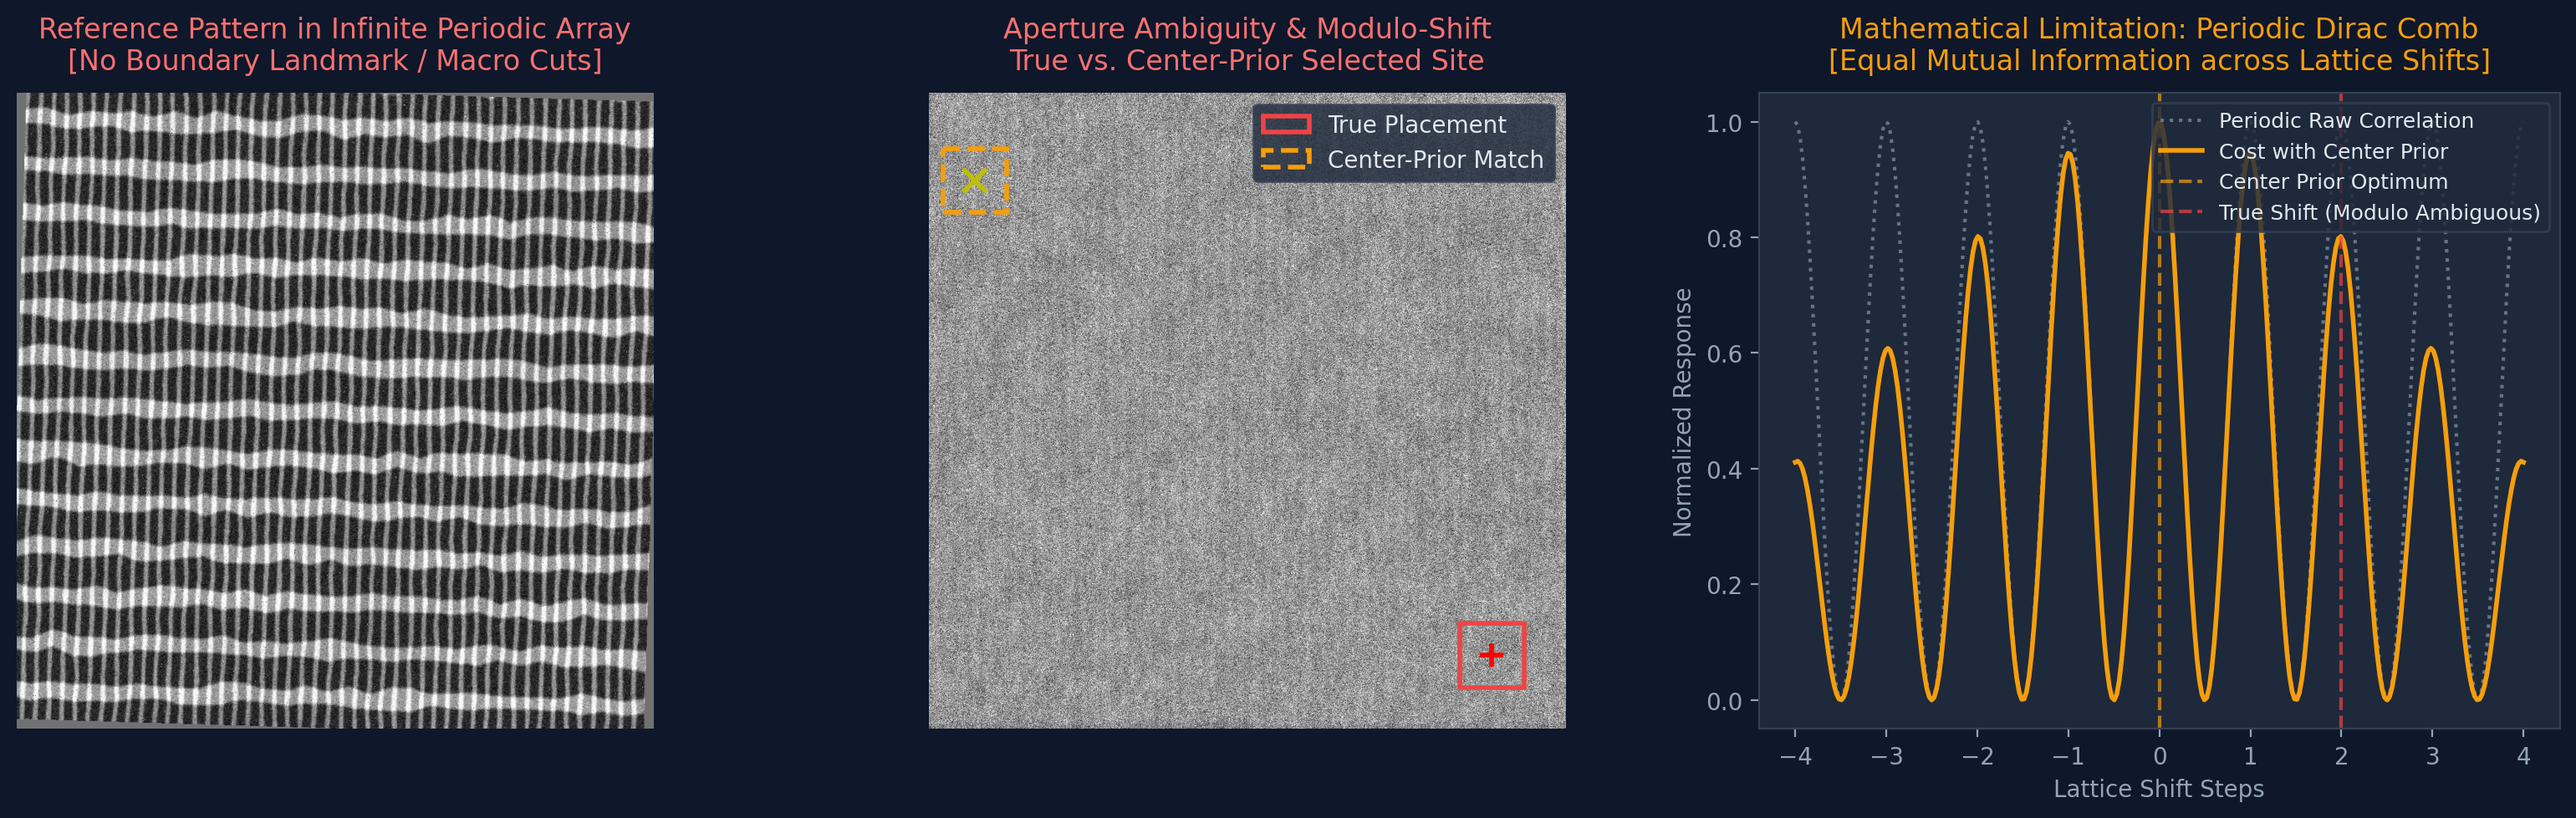
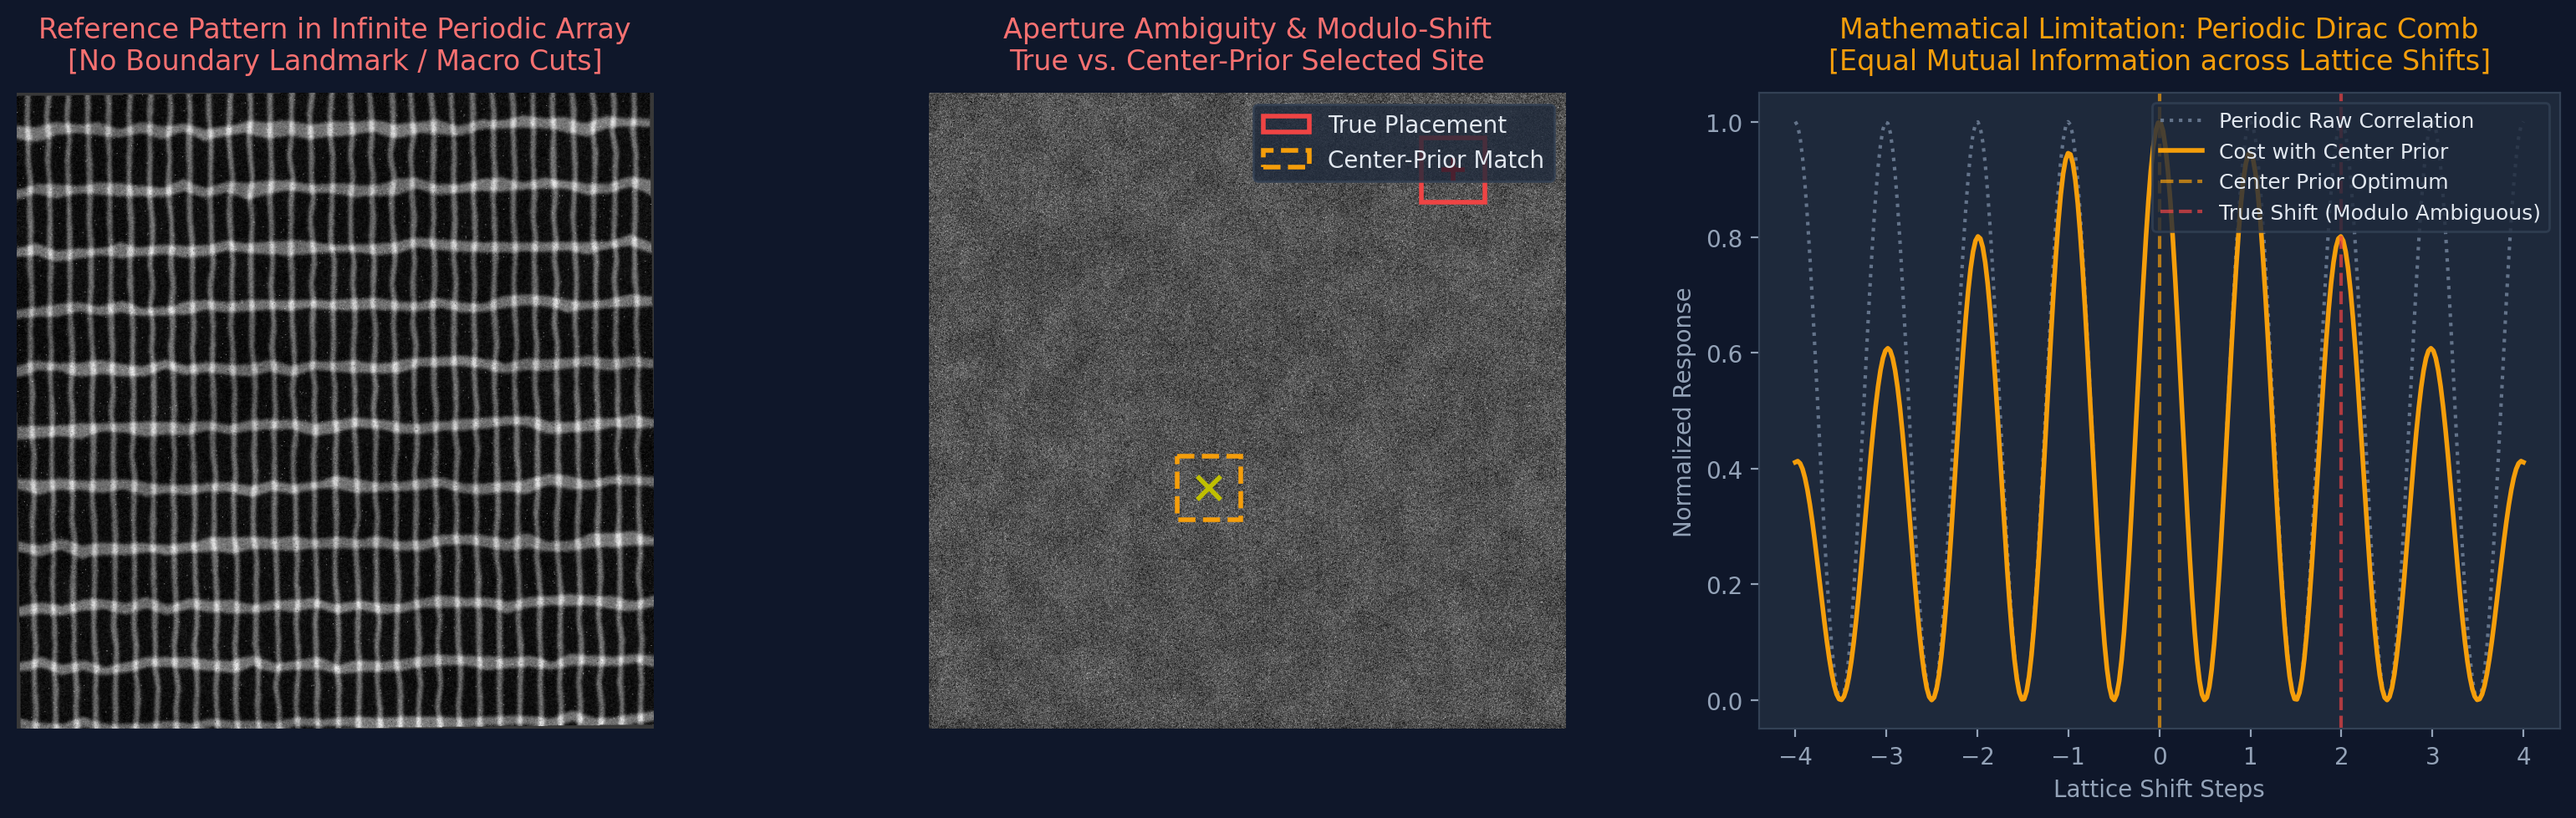
Add files via upload

diff --git a/results/evaluate_benchmarks.py b/results/evaluate_benchmarks.py
@@ -1,0 +1,284 @@
+#!/usr/bin/env python3
+"""
+Drift-Sense Benchmark & Evaluation Suite
+========================================
+Automated evaluation and diagnostic visualization for Applied Materials Hackathon.
+
+Computes:
+  1. Success Rate within sub-pixel (<0.5 px) and standard (<1.0 px) tolerance
+  2. Mean Absolute Error (MAE) in pixels and physical nanometers
+  3. Execution Latency per 1000x1000 image pair
+  4. Generation of visual SUCCESS and HONEST FAILURE case figures
+"""
+
+import os
+import sys
+import time
+import json
+import argparse
+import numpy as np
+from PIL import Image
+import matplotlib
+matplotlib.use('Agg')
+import matplotlib.pyplot as plt
+import matplotlib.patches as patches
+
+from localization_inference import find_localized_center
+
+
+def evaluate_dataset(dataset_dir="./benchmark_dataset", output_dir="./results"):
+    os.makedirs(output_dir, exist_ok=True)
+    manifest_path = os.path.join(dataset_dir, "manifest.json")
+    
+    if not os.path.exists(manifest_path):
+        print(f"Error: manifest.json not found in {dataset_dir}")
+        return
+        
+    with open(manifest_path, "r") as f:
+        manifest = json.load(f)
+        
+    results = []
+    times = []
+    errors = []
+    
+    best_case = None
+    worst_case = None
+    min_err = float('inf')
+    max_err = -1.0
+    
+    print(f"[*] Evaluating {len(manifest)} image pairs from '{dataset_dir}'...")
+    
+    for item in manifest:
+        ref_path = item["reference_path"]
+        search_path = item["search_path"]
+        
+        if not os.path.isabs(ref_path):
+            ref_path = os.path.join(dataset_dir, ref_path)
+        if not os.path.isabs(search_path):
+            search_path = os.path.join(dataset_dir, search_path)
+        gt_x = item["true_center_x"]
+        gt_y = item["true_center_y"]
+        style = item.get("architecture", item.get("style", "unknown"))
+        pure_periodic = item.get("pure_periodic", False)
+        
+        try:
+            ref_img = np.array(Image.open(ref_path).convert("L"))
+            search_img = np.array(Image.open(search_path).convert("L"))
+            
+            # Benchmark single-pair latency
+            t0 = time.perf_counter()
+            (pred_x, pred_y), conf = find_localized_center(ref_img, search_img)
+            elapsed_ms = (time.perf_counter() - t0) * 1000.0
+        except Exception as e:
+            errors.append({"pair_id": item.get("pair_id"), "error": str(e)})
+            print(f"    [!] Skipped pair_id={item.get('pair_id')}: {e}")
+            continue
+        
+        times.append(elapsed_ms)
+        
+        err_px = float(np.hypot(pred_x - gt_x, pred_y - gt_y))
+        err_nm = err_px * 10.0  # 10 nm/px in search image
+        
+        record = {
+            "pair_id": item["pair_id"],
+            "style": style,
+            "pure_periodic": pure_periodic,
+            "gt_x": gt_x,
+            "gt_y": gt_y,
+            "pred_x": pred_x,
+            "pred_y": pred_y,
+            "error_px": err_px,
+            "error_nm": err_nm,
+            "confidence": conf,
+            "latency_ms": elapsed_ms,
+            "ref_path": ref_path,
+            "search_path": search_path
+        }
+        results.append(record)
+        
+        if not pure_periodic and err_px < min_err:
+            min_err = err_px
+            best_case = record
+            
+        if pure_periodic and err_px > max_err:
+            max_err = err_px
+            worst_case = record
+            
+    # Compute summary statistics
+    std_cases = [r for r in results if not r["pure_periodic"]]
+    periodic_cases = [r for r in results if r["pure_periodic"]]
+    
+    std_errors = [r["error_px"] for r in std_cases]
+    std_subpixel_acc = sum(e <= 0.5 for e in std_errors) / len(std_errors) * 100.0 if std_errors else 0.0
+    std_1px_acc = sum(e <= 1.0 for e in std_errors) / len(std_errors) * 100.0 if std_errors else 0.0
+    std_mae_px = float(np.mean(std_errors)) if std_errors else 0.0
+    std_mae_nm = std_mae_px * 10.0
+    
+    mean_latency = float(np.mean(times))
+    p95_latency = float(np.percentile(times, 95))
+    
+    summary = {
+        "total_pairs_evaluated": len(results),
+        "pairs_skipped_due_to_error": len(errors),
+        "standard_cases_count": len(std_cases),
+        "periodic_stress_cases_count": len(periodic_cases),
+        "standard_cases_subpixel_accuracy_pct": round(std_subpixel_acc, 2),
+        "standard_cases_1px_accuracy_pct": round(std_1px_acc, 2),
+        "standard_cases_mae_pixels": round(std_mae_px, 4),
+        "standard_cases_mae_nanometers": round(std_mae_nm, 2),
+        "mean_latency_ms": round(mean_latency, 2),
+        "p95_latency_ms": round(p95_latency, 2)
+    }
+    
+    print("\n================ BENCHMARK SUMMARY ================")
+    print(f"Total Samples Evaluated:            {len(results)}")
+    if errors:
+        print(f"Samples Skipped (errors):           {len(errors)}")
+    print(f"Sub-Pixel Success Rate (<=0.5 px):  {std_subpixel_acc:.1f}%")
+    print(f"Standard Success Rate (<=1.0 px):   {std_1px_acc:.1f}%")
+    print(f"Mean Absolute Error (Standard):     {std_mae_px:.3f} px ({std_mae_nm:.1f} nm)")
+    print(f"Mean Inference Latency:             {mean_latency:.2f} ms")
+    print(f"P95 Latency:                        {p95_latency:.2f} ms")
+    print("===================================================\n")
+    
+    with open(os.path.join(output_dir, "benchmark_summary.json"), "w") as f:
+        json.dump(summary, f, indent=2)
+        
+    with open(os.path.join(output_dir, "detailed_results.json"), "w") as f:
+        json.dump(results, f, indent=2)
+        
+    if errors:
+        with open(os.path.join(output_dir, "skipped_pairs.json"), "w") as f:
+            json.dump(errors, f, indent=2)
+        
+    # Generate Visual Diagnostic Plots
+    generate_visual_cases(best_case, worst_case, output_dir)
+    print(f"[+] Diagnostic visual figures saved to '{output_dir}'.")
+
+
+def generate_visual_cases(best_case, worst_case, output_dir):
+    """
+    Renders high-resolution visual SUCCESS and HONEST FAILURE case figures.
+    """
+    # 1. SUCCESS CASE FIGURE
+    if best_case:
+        fig, axes = plt.subplots(1, 3, figsize=(16, 5), dpi=200)
+        fig.patch.set_facecolor('#0f172a')
+        for ax in axes:
+            ax.set_facecolor('#1e293b')
+            ax.tick_params(colors='#94a3b8')
+            for spine in ax.spines.values():
+                spine.set_color('#334155')
+                
+        ref = Image.open(best_case["ref_path"])
+        search = Image.open(best_case["search_path"])
+        
+        # Panel 1: High-Res Reference
+        axes[0].imshow(ref, cmap='gray')
+        axes[0].set_title(f"Reference Image (1 µm x 1 µm, 1 nm/px)\n[{best_case['style'].upper()} Layout]", color='#38bdf8', fontsize=12, pad=10)
+        axes[0].axis('off')
+        
+        # Panel 2: Wide Search with GT & Prediction Bounding Boxes
+        axes[1].imshow(search, cmap='gray')
+        gt_x, gt_y = best_case["gt_x"], best_case["gt_y"]
+        pred_x, pred_y = best_case["pred_x"], best_case["pred_y"]
+        
+        # GT Box (Green)
+        gt_box = patches.Rectangle((gt_x - 50, gt_y - 50), 100, 100, linewidth=2, edgecolor='#22c55e', facecolor='none', label='Ground Truth')
+        # Pred Box (Cyan dashed)
+        pred_box = patches.Rectangle((pred_x - 50, pred_y - 50), 100, 100, linewidth=2, edgecolor='#38bdf8', linestyle='--', facecolor='none', label='Predicted')
+        
+        axes[1].add_patch(gt_box)
+        axes[1].add_patch(pred_box)
+        axes[1].plot(gt_x, gt_y, 'g+', markersize=10, markeredgewidth=2)
+        axes[1].plot(pred_x, pred_y, 'cx', markersize=10, markeredgewidth=2)
+        axes[1].set_title(f"Wide Search Image (10 µm x 10 µm, 10 nm/px)\nPred: ({pred_x:.1f}, {pred_y:.1f}) | GT: ({gt_x:.1f}, {gt_y:.1f})", color='#38bdf8', fontsize=12, pad=10)
+        axes[1].legend(loc='upper right', facecolor='#1e293b', edgecolor='#334155', labelcolor='#e2e8f0')
+        axes[1].axis('off')
+        
+        # Panel 3: Zoomed Localized Inset
+        crop_r = 75
+        x_min, x_max = int(max(0, gt_x - crop_r)), int(min(1000, gt_x + crop_r))
+        y_min, y_max = int(max(0, gt_y - crop_r)), int(min(1000, gt_y + crop_r))
+        search_np = np.array(search)
+        crop_img = search_np[y_min:y_max, x_min:x_max]
+        
+        axes[2].imshow(crop_img, cmap='gray')
+        local_gt_x = gt_x - x_min
+        local_gt_y = gt_y - y_min
+        local_pred_x = pred_x - x_min
+        local_pred_y = pred_y - y_min
+        
+        axes[2].plot(local_gt_x, local_gt_y, 'g+', markersize=14, markeredgewidth=2.5, label='GT Center')
+        axes[2].plot(local_pred_x, local_pred_y, 'cx', markersize=14, markeredgewidth=2.5, label='Pred Center')
+        axes[2].set_title(f"Sub-Pixel Local Alignment View\nLocalization Error: {best_case['error_px']:.3f} px ({best_case['error_nm']:.1f} nm)", color='#22c55e', fontsize=12, pad=10)
+        axes[2].legend(loc='upper right', facecolor='#1e293b', edgecolor='#334155', labelcolor='#e2e8f0')
+        axes[2].axis('off')
+        
+        plt.tight_layout()
+        plt.savefig(os.path.join(output_dir, "success_case.png"), facecolor=fig.get_facecolor(), bbox_inches='tight')
+        plt.close()
+
+    # 2. HONEST FAILURE CASE FIGURE (Aperture / Infinite Periodic Grid Limit)
+    if worst_case:
+        fig, axes = plt.subplots(1, 3, figsize=(16, 5), dpi=200)
+        fig.patch.set_facecolor('#0f172a')
+        for ax in axes:
+            ax.set_facecolor('#1e293b')
+            ax.tick_params(colors='#94a3b8')
+            for spine in ax.spines.values():
+                spine.set_color('#334155')
+                
+        ref = Image.open(worst_case["ref_path"])
+        search = Image.open(worst_case["search_path"])
+        
+        axes[0].imshow(ref, cmap='gray')
+        axes[0].set_title("Reference Pattern in Infinite Periodic Array\n[No Boundary Landmark / Macro Cuts]", color='#f87171', fontsize=12, pad=10)
+        axes[0].axis('off')
+        
+        axes[1].imshow(search, cmap='gray')
+        gt_x, gt_y = worst_case["gt_x"], worst_case["gt_y"]
+        pred_x, pred_y = worst_case["pred_x"], worst_case["pred_y"]
+        
+        gt_box = patches.Rectangle((gt_x - 50, gt_y - 50), 100, 100, linewidth=2, edgecolor='#ef4444', facecolor='none', label='True Placement')
+        pred_box = patches.Rectangle((pred_x - 50, pred_y - 50), 100, 100, linewidth=2, edgecolor='#f59e0b', linestyle='--', facecolor='none', label='Center-Prior Match')
+        
+        axes[1].add_patch(gt_box)
+        axes[1].add_patch(pred_box)
+        axes[1].plot(gt_x, gt_y, 'r+', markersize=10, markeredgewidth=2)
+        axes[1].plot(pred_x, pred_y, 'yx', markersize=10, markeredgewidth=2)
+        axes[1].set_title(f"Aperture Ambiguity & Modulo-Shift\nTrue vs. Center-Prior Selected Site", color='#f87171', fontsize=12, pad=10)
+        axes[1].legend(loc='upper right', facecolor='#1e293b', edgecolor='#334155', labelcolor='#e2e8f0')
+        axes[1].axis('off')
+        
+        # Panel 3: Explanatory Schematic of Dirac Comb Periodic Correlation Surface
+        x_mesh = np.linspace(-4, 4, 300)
+        corr_comb = (np.cos(x_mesh * np.pi * 2.0) + 1.0) / 2.0
+        center_penalty = np.exp(-0.5 * (x_mesh / 3.0)**2)
+        combined = corr_comb * center_penalty
+        
+        axes[2].plot(x_mesh, corr_comb, color='#64748b', linestyle=':', label='Periodic Raw Correlation')
+        axes[2].plot(x_mesh, combined, color='#f59e0b', linewidth=2, label='Cost with Center Prior')
+        axes[2].axvline(0.0, color='#f59e0b', linestyle='--', alpha=0.7, label='Center Prior Optimum')
+        axes[2].axvline(2.0, color='#ef4444', linestyle='--', alpha=0.7, label='True Shift (Modulo Ambiguous)')
+        axes[2].set_title("Mathematical Limitation: Periodic Dirac Comb\n[Equal Mutual Information across Lattice Shifts]", color='#f59e0b', fontsize=12, pad=10)
+        axes[2].legend(loc='upper right', facecolor='#1e293b', edgecolor='#334155', labelcolor='#e2e8f0', fontsize=9)
+        axes[2].set_xlabel("Lattice Shift Steps", color='#94a3b8')
+        axes[2].set_ylabel("Normalized Response", color='#94a3b8')
+        
+        plt.tight_layout()
+        plt.savefig(os.path.join(output_dir, "honest_failure_case.png"), facecolor=fig.get_facecolor(), bbox_inches='tight')
+        plt.close()
+
+
+def main():
+    parser = argparse.ArgumentParser(description="Drift-Sense Benchmark & Diagnostic Suite")
+    parser.add_argument("--dataset_dir", type=str, default="./benchmark_dataset")
+    parser.add_argument("--output_dir", type=str, default="./results")
+    args = parser.parse_args()
+    
+    evaluate_dataset(args.dataset_dir, args.output_dir)
+
+
+if __name__ == "__main__":
+    main()
